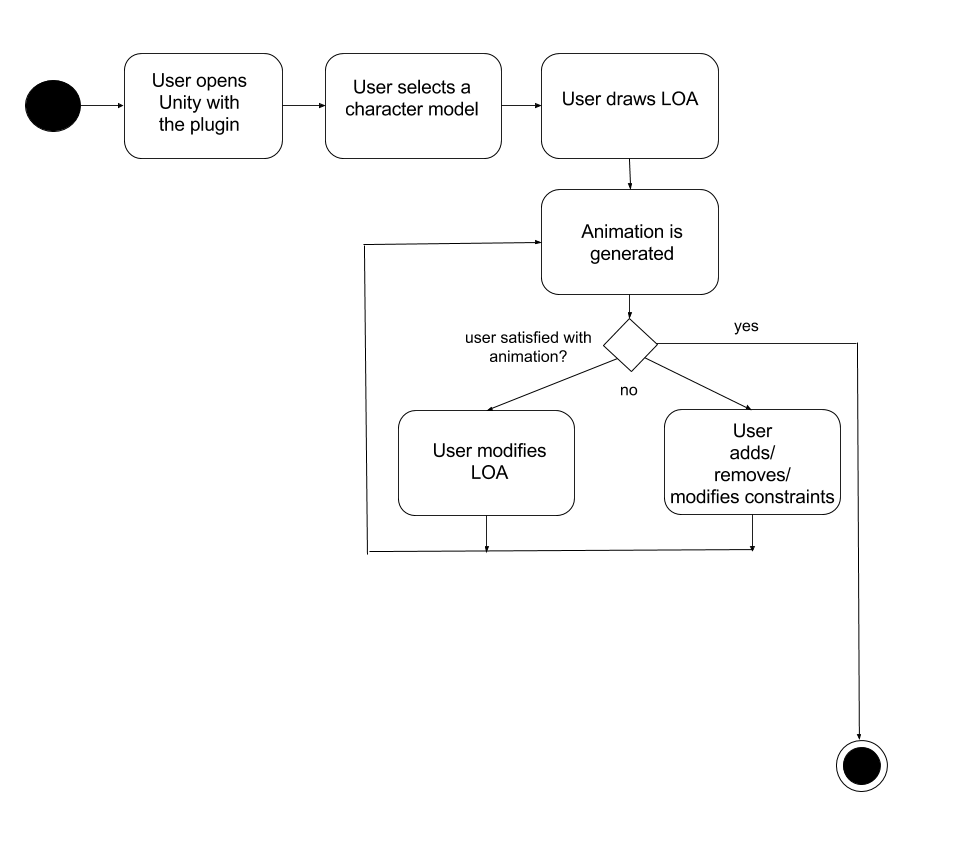
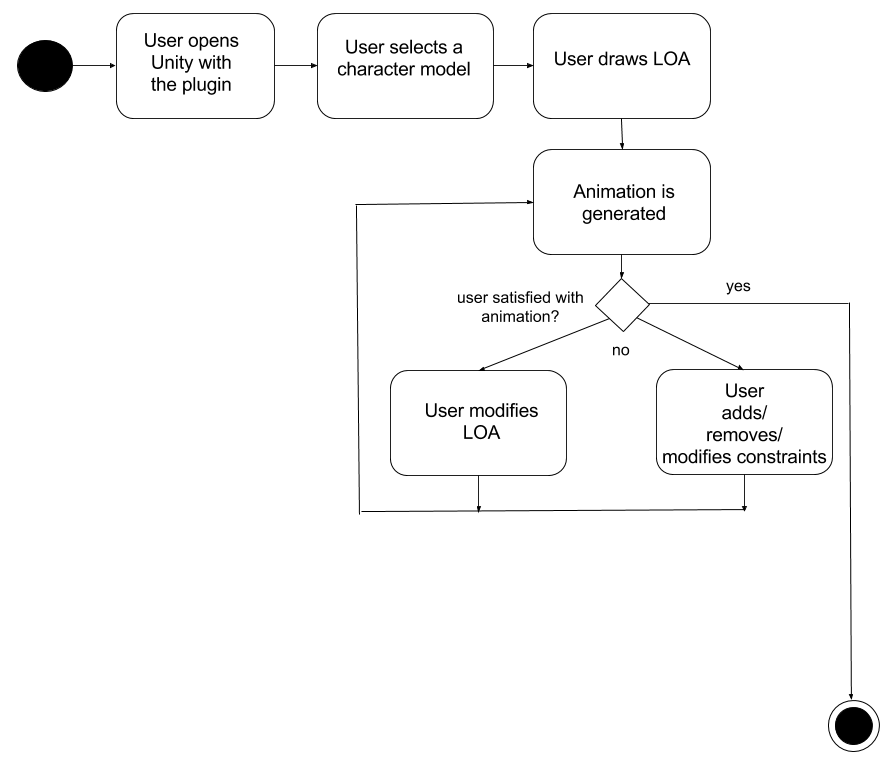
Added corrections to issues pointed out by will

diff --git a/Requirements.Specification/tex/modules/spec.requirements.tex b/Requirements.Specification/tex/modules/spec.requirements.tex
@@ -1,13 +1,14 @@
 \section{Specification Requirements}
 \input{modules/functional.features.tex}
 \input{modules/non.functional.features.tex}
-
-\subsection{Activity Diagram}
-The working of the program is explained by the following activity diagram:
-\begin{figure}[h]
-\includegraphics[scale=0.5]{images/activitydiagram.png}
-\end{figure}
-
-\input{modules/use.cases.tex}
 \input{modules/interface.requirements}
 \input{modules/os.environment}
+
+\newpage
+\subsection{Activity Diagram}
+The working of the program is explained by the following activity diagram:
+\begin{figure}[H]
+\includegraphics[width=\textwidth]{images/activitydiagram.png}
+\end{figure}
+
+\input{modules/flow.cases.tex}

diff --git a/Requirements.Specification/tex/modules/product.perspective.tex b/Requirements.Specification/tex/modules/product.perspective.tex
@@ -1,5 +1,8 @@
 \subsection{Product Perspective}
-This is an open source product. The source code is free to download. This software is aimed toward game developers and Unity users who need to quickly and easily animate characters for their projects.
+This is an open source product. The source code is free to download or fork from our
+github repositories (Links are provided in \hyperref[App:AppendixSD]{\textbf{\textit{Appendix A}}}). This software
+is aimed toward game developers and Unity users who need to quickly and easily
+animate characters for their projects.
 
 The two major components of the systems are the Unity User Interface (UI) and the Core Functionality:
 

diff --git a/Requirements.Specification/tex/modules/flow.cases.tex b/Requirements.Specification/tex/modules/flow.cases.tex
@@ -1,4 +1,4 @@
-\subsection{Use cases}
+\subsection{Flow cases}
 \subsubsection{Start UI}
     \begin{itemize}
     \item Preconditions
